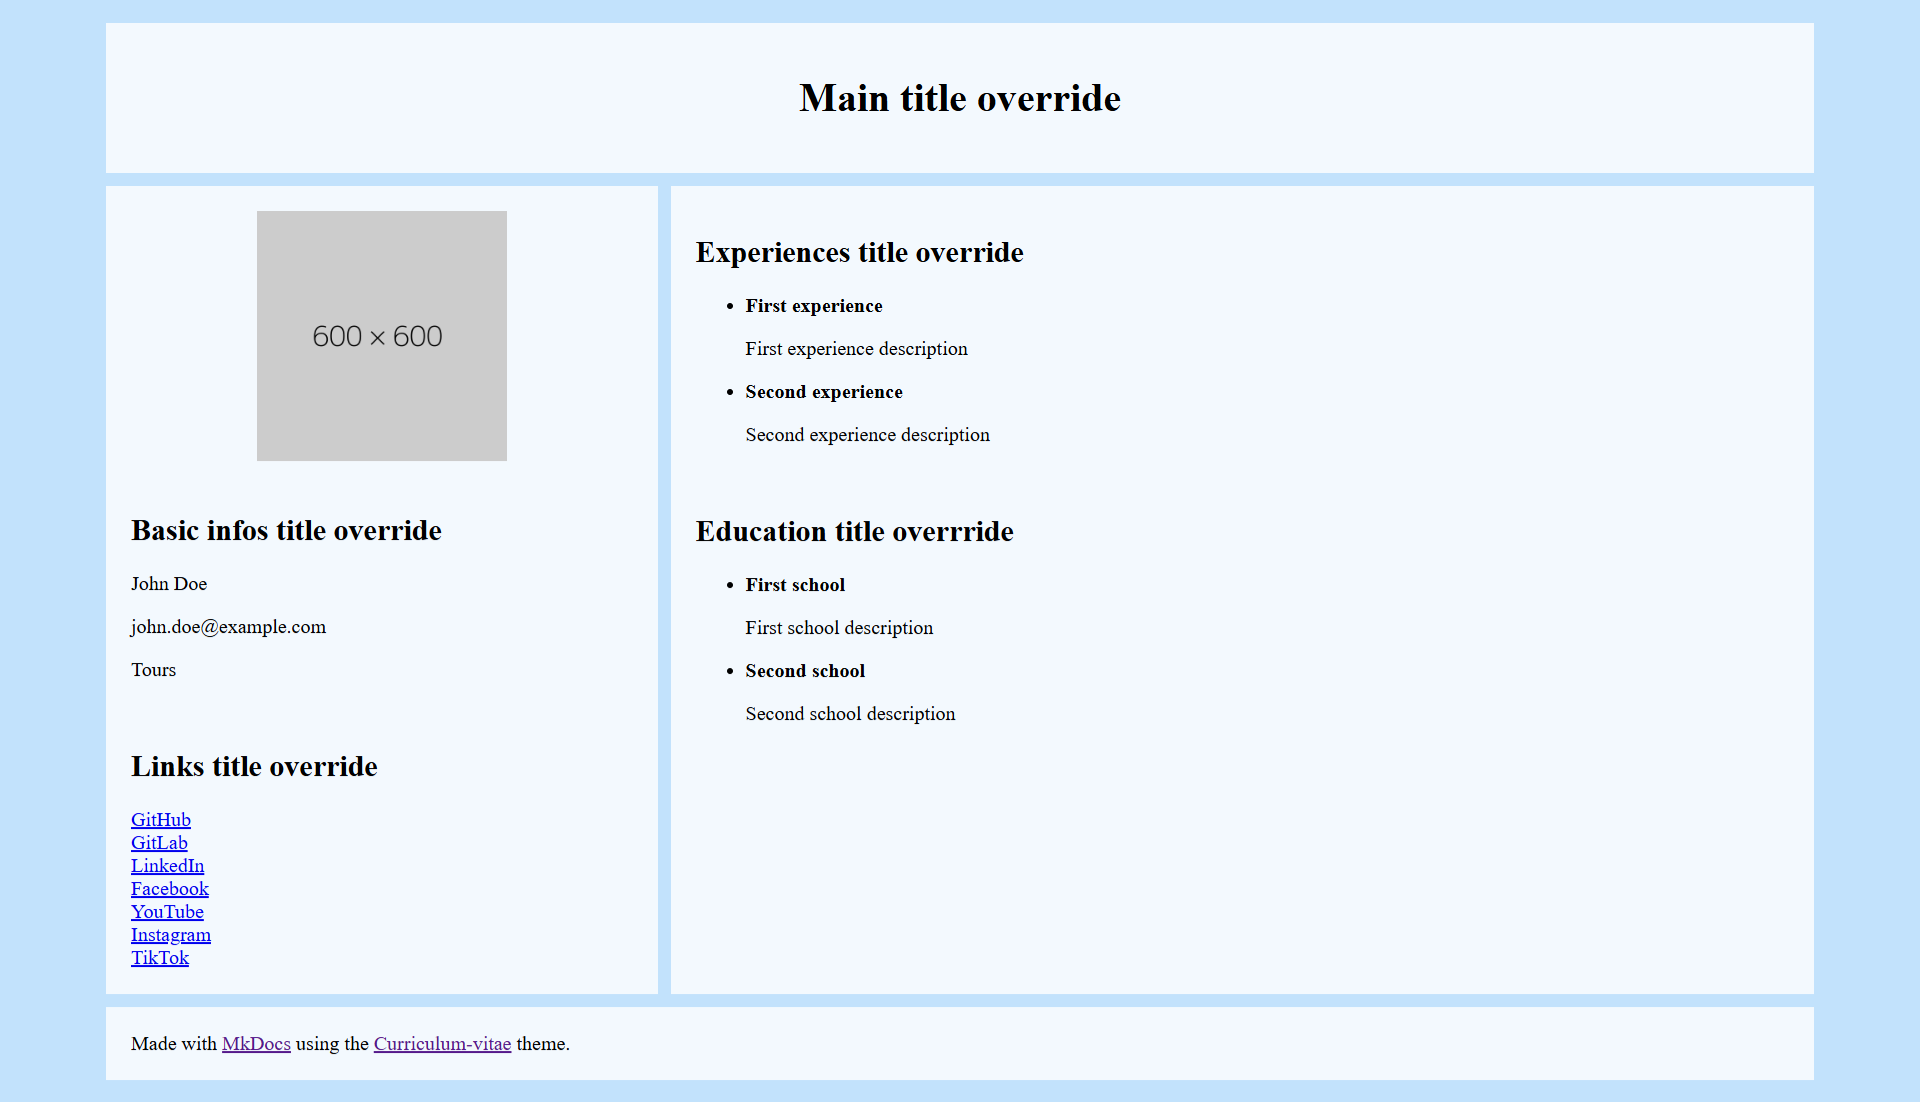
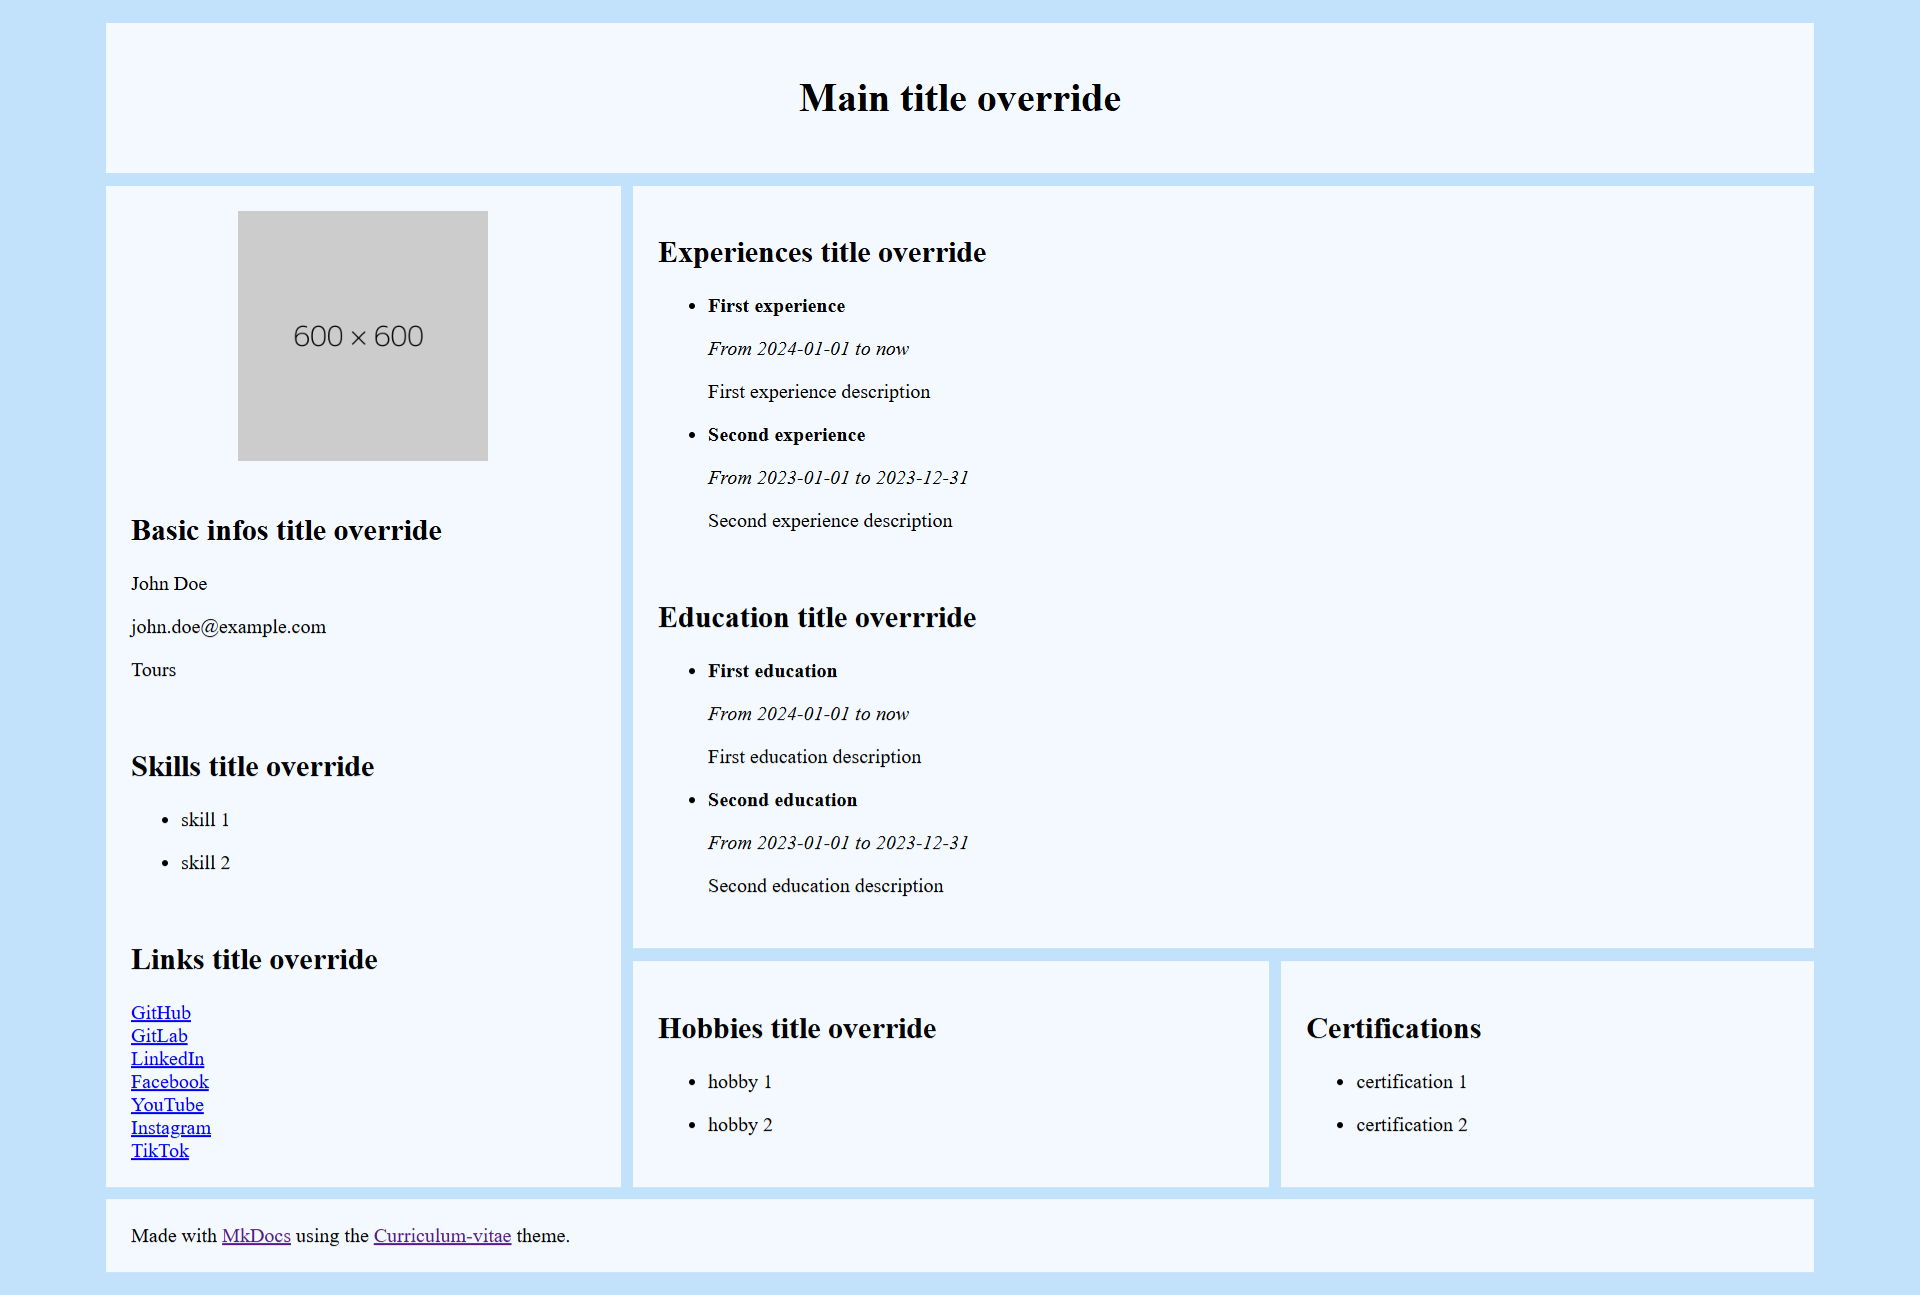
feat: add certifications

Changed region(s): [[0.0312, 0.0617, 0.9688, 0.9873]]

diff --git a/src/mkdocs_curriculum_vitae/main.html b/src/mkdocs_curriculum_vitae/main.html
@@ -99,6 +99,16 @@
                 {%- endfor %}
             </ul>
         </div>
+        <div class="certifications">
+            <h2>{{ config.theme.certifications_section_title | default('Certifications') }}</h2>
+            <ul>
+                {%- for certification in config.theme.certifications %}
+                <li>
+                    <p>{{ certification }}</p>
+                </li>
+                {%- endfor %}
+            </ul>
+        </div>
         <div class="footer">
             Made with <a href="">MkDocs</a> using the <a href="https://github.com/Paul-Riviere/mkdocs-curriculum-vitae">Curriculum-vitae</a> theme.
         </div>

diff --git a/src/mkdocs_curriculum_vitae/assets/mkdocs_curriculum_vitae.css b/src/mkdocs_curriculum_vitae/assets/mkdocs_curriculum_vitae.css
@@ -19,12 +19,16 @@
   grid-area: hobbies;
 }
 
+.certifications {
+  grid-area: certifications;
+}
+
 .grid-container {
   display: grid;
   grid-template-areas:
     'header header header header header'
     'basic-infos main-infos main-infos main-infos main-infos'
-    'basic-infos hobbies hobbies hobbies hobbies'
+    'basic-infos hobbies hobbies certifications certifications'
     'footer footer footer footer footer';
   gap: 10px;
   background-color: #c2e2fc;

diff --git a/docs/how-to-use-it.md b/docs/how-to-use-it.md
@@ -89,6 +89,26 @@ skills:
   - skill 2
 ```
 
+### Hobbies
+
+- `hobbies`
+
+```yml
+hobbies:
+  - hobby 1
+  - hobby 2
+```
+
+### Certifications
+
+- `certifications`
+
+```yml
+certifications:
+  - certification 1
+  - certification 2
+```
+
 ### Personnal links
 
 You can add links to your CV, those variables are optionnal. The link will appear only if the associated variable is defined.
@@ -137,12 +157,16 @@ theme:
   experiences_section_title: Experiences title override
   education_section_title: Education title overrride
   hobbies_section_title: Hobbies title override
+  certifications_section_title: Certifications title override
   skills:
     - skill 1
     - skill 2
   hobbies:
     - hobby 1
     - hobby 2
+  certifications:
+    - certification 1
+    - certification 2
   personnal_links:
     github: https://example.com/
     gitlab: https://example.com/
